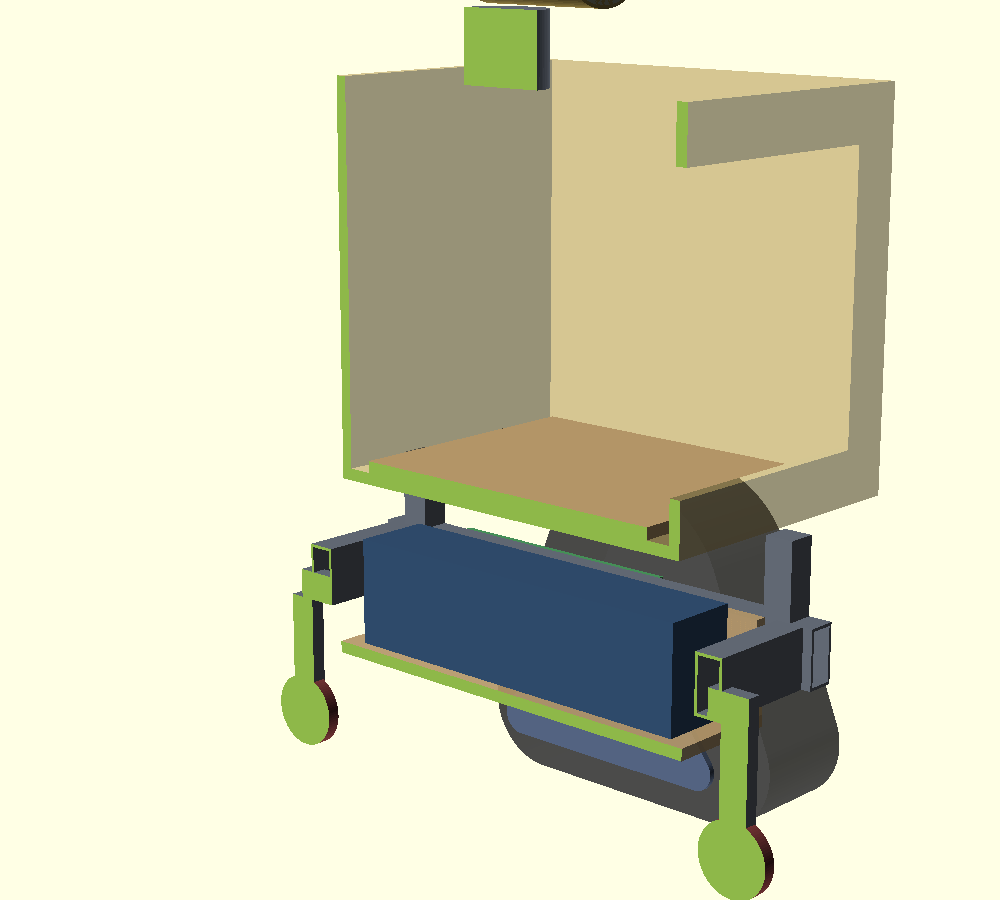
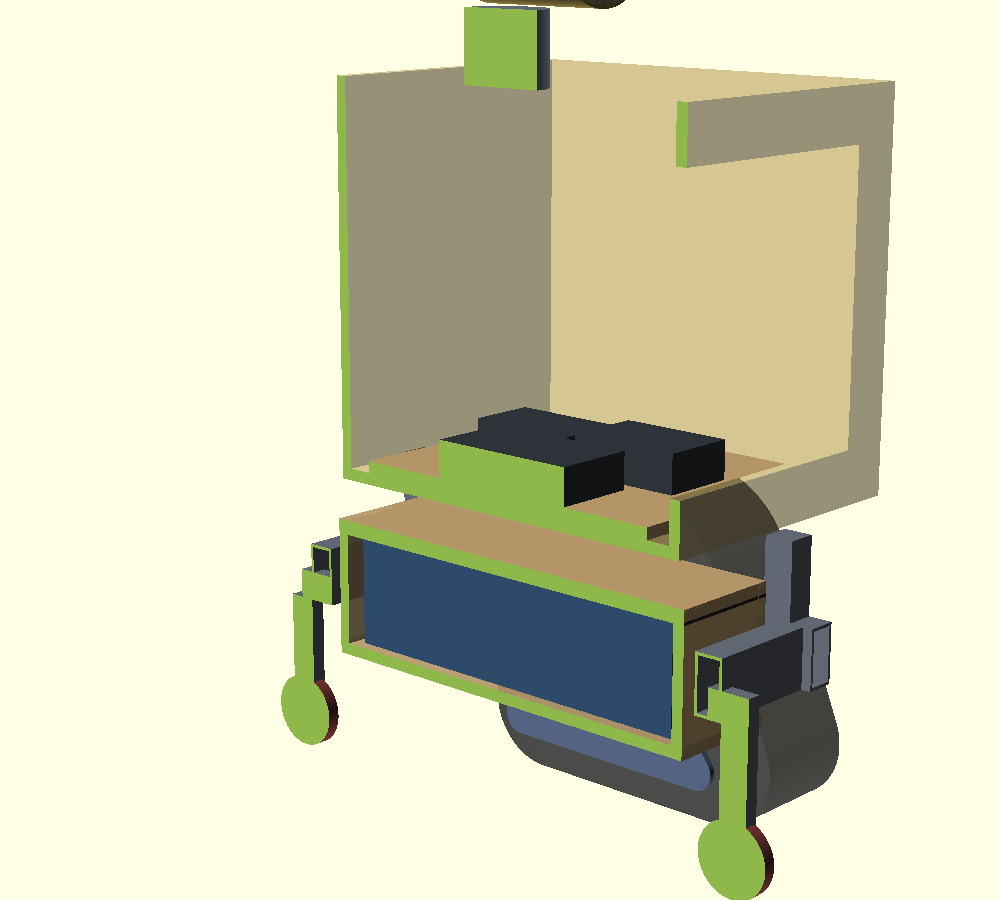
WALL-E: make the battery box an actually closed box
Sand was the reason behind the question about moving the packs into the body,
and it found a real fault. The box was a three-sided plywood U: a floor and two
side walls that stopped at the rail top, 15 mm BELOW the tops of the packs. It
was open across the whole top, open at both ends, and it carried four 30 mm
spanner holes in the sides. It hangs directly inboard of the belts, and the
belts throw sand inward and upward. It would have filled in a day.

It is now a closed box. Two end walls, which are the parts that were missing
entirely, and a gasketed lid. The side walls grew from 107 to 142 mm so they
reach above the packs and the lid has something to seal against. The plates
render mode and the cut list now carry all six panels.

Four details decide whether it seals rather than just looks sealed. The lid gets
3 mm closed-cell foam tape and twelve M5 bolts at 110 mm pitch, because a gasket
only seals where it is squeezed. The four spanner holes get silicone blanking
plugs, since they have to stay for pod removal but they point at the belts. The
packs get an 8 mm foam pad above them, which clamps them down and takes the
vibration. And the box gets a membrane vent, which is not optional: a sealed box
breathes with the desert day/night swing and pulls dust in through whichever
leak is worst, so it needs a deliberate clean path.

The vent goes in the lid rather than a wall. The first attempt put it high on
[…]

Changed region(s): [[0.341, 0.4356, 0.775, 0.84]]

diff --git a/WALL-E/docs/06-why-the-batteries-are-low.md b/WALL-E/docs/06-why-the-batteries-are-low.md
@@ -1,109 +1,174 @@
-# 06 — Why the batteries are low, and not in the body
+# 06 — Why the batteries are low, and how the box keeps sand out
 
-A reasonable question, asked on 2026-09-16. The body has plenty of spare room on
-the electronics shelf, and putting the packs there would mean no plywood box
-slung under the frame at all. So why hang them below?
+Asked on 2026-09-16: why can't the batteries be inside the body? The reason
+behind the question was sand. The packs need to be in a closed box.
 
-Run `cad/walle_frame.scad` and it prints the comparison. This document is the
-reasoning behind those numbers.
+**The question found a real bug.** The box I had drawn was a three-sided U —
+a floor and two side walls that stopped at the rail top, 15 mm *below* the tops
+of the packs. It was open across the top, open at both ends, and it had four
+Ø30 mm spanner holes in the sides. It hangs directly inboard of the belts, and
+the belts throw sand inward and upward. Sand would have filled it in a day.
+
+That is fixed. The box is now a closed, gasketed box, and the cut list has the
+end walls and the lid in it. Section 1 is the specification.
+
+The location question then still stands, and section 2 answers it: seal the low
+box rather than move the packs up.
 
 ---
 
-## The numbers
+## 1. The closed box
+
+Run `cad/walle_frame.scad` and the cut list prints all six panels.
+
+| Panel | Size | Notes |
+|---|---|---|
+| Floor | 444 × 240 | 12 mm ply |
+| Lid | 444 × 240 | 12 mm ply, 12 × M5 round the edge at 110 mm pitch |
+| Side walls | 2 × 444 × 142 | Each with 2 × Ø30 spanner holes, 77 mm up |
+| End walls | 2 × 240 × 142 | **These are the new parts. They close the box** |
+
+The walls are 142 mm tall now, not 107, so they reach above the packs and the
+lid has something to seal against.
+
+### The four things that actually make it sealed
+
+**A gasket, and enough bolts to squeeze it.** 3 mm closed-cell foam tape under
+the lid. Twelve M5 bolts at 110 mm pitch, which is closer than it looks like it
+needs to be — a gasket only seals where it is squeezed, so a bolt every 250 mm
+leaves the middle of each span open.
+
+**Plugs in the spanner holes.** The four Ø30 holes are how you reach the M12
+bolts that hold the pods on, so they have to stay. But they are holes in a
+sealed box and they point at the belts. Each gets a silicone blanking plug, in
+place whenever you are not removing a pod. They cost about a dollar each and
+without them none of the rest of this matters.
+
+**A foam pad on top of the packs.** 8 mm of closed-cell foam between the packs
+and the lid. It clamps the packs down so they cannot move, and it takes the
+vibration that would otherwise go straight into the cells.
+
+**A membrane vent — this one is not optional.** A fully sealed box *breathes*.
+The desert swings from about 15 °C at night to 40 °C in the day, and the air
+inside expands and contracts with it. Every cycle pushes air out and pulls air
+back in, and it pulls it through whichever leak is worst. Seal a box perfectly
+and you have built a dust pump.
+
+A screw-in membrane vent (the Gore type) gives that air a deliberate path that
+passes air but not dust or water. It goes in the **lid**, on the centreline,
+directly over the 24 mm gap between the two packs so the foam pad does not block
+the airway. The lid is the most sheltered surface on the box: the body floor
+sits 43 mm above it, so nothing has a straight path to it.
+
+There is a second reason the vent goes in the lid. There is barely any wall
+above the packs to put it in — the model's guards catch this, and the first
+attempt put it 2 mm *below* the pack tops.
+
+### Charge the packs in place. Do not take them out
+
+Once the box is sealed, **every time you open it you undo the sealing.** At a
+dusty event, opening the pack box daily is worse than never sealing it.
+
+So the packs are not removable in the field. Run the charge leads out of the box
+through a cable gland, to a connector on the outside of the body behind a dust
+cap, and charge the robot without opening anything. This is how every e-bike and
+scooter with an integrated pack works.
+
+The box opens for maintenance only, which means lifting the body off first. That
+is a workshop job, not a field job, and that is the right trade.
+
+> One thing to check on the bench: charging inside a sealed box has nowhere to
+> put the heat. At 5 A a 48 V pack loses roughly 12 W as heat. Measure the pack
+> temperature through a full charge with the lid on before trusting it, and if it
+> climbs, charge with the body lid open or drop the charge current.
+
+---
+
+## 2. Why seal the low box, instead of moving the packs into the body
+
+On sand alone, the body looks like the better place: it is higher up, closed, and
+away from the belts. That is a fair point, so here is the argument against it.
+
+**The packs need a sealed case wherever they go.** Putting them in the body does
+not remove that work. The body is not a clean environment — it has a filtered air
+intake, a removable top lid and several cable entries, and it is full of
+electronics that you would not want a cell to vent next to. They would still end
+up in their own gasketed case, just a case sitting higher up. The sealing work in
+section 1 happens either way.
+
+Once that is true, the location is decided by everything else, and low wins on
+all of it:
+
+**The body is the hottest place on the robot.** Inside it there is a Jetson
+putting out 25 W, both VESCs and the amplifier, in a sealed foam-lined box, in
+the Negev. Lithium cells lose life quickly above 45 °C, and that is normal
+ageing, not a fault. Under the frame the packs sit in open air in the draught of
+driving — the best-cooled spot on the machine, free.
+
+**The shelf cannot really take them.** A pack is 400 mm long and the shelf is
+only 356 mm deep, so they could not even lie fore-aft. Lying across the robot the
+two of them use 50 % of the shelf area on top of the 32 % the electronics already
+need. That is 83 % of the shelf, and what is left has to hold two 6.5 inch
+speakers and a clear air path.
+
+**It is the worst place for a cell to fail.** A box under the frame vents
+downwards and away from everything. The same event on the electronics shelf
+happens inside the body, next to every board, with the head on top of it.
+
+**It throws away the best volume on the robot.** The frame interior is
+444 × 240 × 110 mm, lower than anything else, and mass down there *improves* the
+tipping instead of hurting it.
+
+### The tipping numbers, for completeness
 
 | | Battery CoM | Robot CoM | Tips forward at |
 |---|---|---|---|
 | **As built** — packs in the frame | 217 mm | 332 mm | **19.2°** |
 | If moved to the body shelf | 399 mm | 364 mm | 17.6° |
 
-So moving them up raises the robot's centre of mass by 32 mm and costs 1.6° of
-tipping margin.
-
-**That on its own is not a veto, and it is worth being honest about that.** The
-anti-tip castor catches the pitch at 12.3°, so the margin would go from 6.9° to
-5.3°, which still passes the model's check. Tipping is not the reason.
+Moving them up raises the centre of mass 32 mm and costs 1.6°. **That on its own
+is not a veto, and it is worth being honest about that** — the anti-tip castor
+catches the pitch at 12.3° either way, so the margin would go from 6.9° to 5.3°
+and still pass. Tipping is not the reason. The four points above are.
 
 ---
 
-## The four reasons that are
+## 3. The one argument for moving them: ground clearance
 
-### 1. The shelf cannot really take them
+The plywood box floor is the lowest point of the robot, at 150 mm. Remove the box
+and the lowest point becomes the rail bottoms at 197 mm. That is 47 mm of extra
+ground clearance, and on rutted sand it is a genuine gain.
 
-A pack is 400 mm long and the shelf is only 356 mm deep, so the packs **cannot
-lie fore-aft at all.** They would have to lie across the robot, and then the two
-of them use 50 % of the shelf area on top of the 32 % the electronics already
-need. That is 83 % of the shelf gone.
+If clearance turns out to be the problem, **do not solve it by moving the packs
+into the body. Raise the box.** The pack top is at 272 mm and the pod belt crown
+above it is at 327, so there is unused headroom. The limit is not the crown — it
+is the M12 spanner holes in the side walls, which have to stay clear of the
+floor. That caps the floor at 190 mm. Checked against the model: at 190 the guard
+sits exactly on its minimum, and at 195 it fails.
 
-What is left has to hold two 6.5 inch speakers and a clear air path past the
-Jetson and the two VESCs. It will not.
+| | Ground clearance | Robot CoM | Tips forward at |
+|---|---|---|---|
+| Box floor at 150 (as built) | 150 mm | 332 mm | 19.2° |
+| Box floor at 190 (the limit) | **190 mm** | 340 mm | **18.8°** |
+| Packs in the body | 197 mm | 364 mm | 17.6° |
 
-### 2. The body is the hottest place on the robot
+Raising the box buys 40 of the 47 mm for 0.4° instead of 1.6°, and none of the
+heat, access or failure-mode problems. Owner decision 2026-09-16: leave it at
+150 for now and revisit after the first drive on sand.
 
-Inside the body there is a Jetson putting out 25 W, two VESCs, and an amplifier,
-in a sealed foam-lined box, in the Negev in summer.
-
-Lithium cells lose life quickly above 45 °C, and that is the normal degradation
-case, not the failure case. Down in the frame the packs sit in open air
-underneath the body, in the draught of driving. That is the single best-cooled
-location on the whole machine, and it costs nothing to use it.
-
-### 3. If a pack does fail, where it fails matters
-
-An open-bottomed plywood tray under the frame lets a venting cell dump downwards
-and away from everything. The same event on the electronics shelf happens inside
-a closed foam box, next to every board on the robot, with WALL-E's head on top of
-it.
-
-### 4. It throws away the best space on the robot
-
-The frame interior is 444 × 240 × 110 mm of volume, lower than anything else, and
-mass down there is free — it improves the tipping instead of hurting it. Filling
-it with air and then carrying 16 kg at shelf height is the wrong way round.
-
-There is also a practical cost: charging means lifting two 8 kg packs up over a
-400 mm body wall and down onto a shelf, every day, in the dark, in dust. Out of a
-tray at knee height it is a two-second job.
-
----
-
-## The one real argument the other way
-
-The plywood box floor is the lowest point of the robot, at 150 mm. Take the box
-away and the lowest point becomes the rail bottoms at 197 mm. **That is 47 mm of
-extra ground clearance, and on soft sand with ruts it is a genuine gain.**
-
-If clearance turns out to be the problem, do **not** solve it by moving the packs
-into the body. Solve it by raising the box.
-
-### Raising the box instead
-
-The pack top is currently at 272 mm and the thing above it — the pod belt crown —
-is at 327 mm. So there are 55 mm of unused headroom. The box can simply move up.
-
-The limit is not the crown. It is the M12 bolt access holes in the box side
-walls, which have to stay clear of the floor. That caps the floor at 190 mm:
-
-| | Ground clearance | Battery CoM | Robot CoM | Tips forward at |
-|---|---|---|---|---|
-| Box floor at 150 (as built) | 150 mm | 217 mm | 332 mm | 19.2° |
-| Box floor at 190 (the limit) | **190 mm** | 257 mm | 339 mm | **18.8°** |
-| Packs in the body | 197 mm | 399 mm | 364 mm | 17.6° |
-
-Raising the box buys almost all of the clearance for a quarter of the tipping
-cost, and none of the heat, access or failure-mode problems.
-
-One consequence to design for: with the floor at 190 the side walls are only
-60 mm tall, so the 110 mm packs stand mostly above the walls. The box becomes a
-shallow tray, and the packs then need a strap or a lid across the top to hold
-them down rather than relying on the walls.
+One consequence to design for if it does get raised: at a floor of 190 the side
+walls are only 60 mm of useful depth below the rail top, so the packs stand
+proud of the rails by more. The lid bolts then need blocks to land on rather than
+just the wall edges.
 
 ---
 
 ## Summary
 
-Keep the batteries low. Not because of the tipping, which is affordable, but
-because the body has no room for them, it is the hottest and most enclosed place
-on the robot, it is the worst place for a cell to fail, and it wastes the one
-volume where mass is actually helpful.
+The box was open, which was a real fault, and it is now a closed box with a
+gasket, plugged spanner holes, a foam pad and a membrane vent in the lid. Charge
+through a sealed connector and do not open it in the field.
 
-If ground clearance becomes the problem, raise the box floor towards 190 mm.
+Keep the packs low. Not because of the tipping, which is affordable, but because
+they need a sealed case wherever they go, and once that is true the body is the
+hottest, most crowded, and most dangerous place to put them.

diff --git a/WALL-E/docs/00-plan.md b/WALL-E/docs/00-plan.md
@@ -120,7 +120,10 @@ follow from that:
 | L12 | Body length follows the **pod** length, not the anti-tip castors | A body sized to cover the castors is 745 mm on 363 mm pods, and looks like a crate on toy wheels. The castor arms show as outriggers instead |
 | L13 | Two Face boards, one per eye | Two 480×480 QSPI panels on one ESP32-S3 is tight and would tear. 12 dollars removes the risk. `05-bom.md` §4 |
 | L14 | The amplifier gets its own 48→32 V converter | A TPA3255 maxes out at 53.5 V and a "48 V" pack is 54.6 V full. It also keeps the audio spikes off the Jetson's rail. `04-power-and-wiring.md` §4 |
-| L15 | **Batteries stay in the frame, not in the body** | Not for the tipping, which is affordable. The shelf has no room, the body is the hottest and most sealed place on the robot, and it is the worst place for a cell to fail. If clearance is the problem, raise the box floor towards 190 mm instead. `06-why-the-batteries-are-low.md` |
+| L15 | **Batteries stay in the frame, not in the body** | Not for the tipping, which is affordable. They need a sealed case wherever they go, and once that is true the body is the hottest, most crowded and most dangerous place for them. `06-why-the-batteries-are-low.md` |
+| L16 | The battery box is a **closed, gasketed box** with a membrane vent in the lid | Owner, 2026-09-16: sand. It was a three-sided U hanging where the belts throw sand. Now six panels, plugged spanner holes, foam pad, lid vent |
+| L17 | Packs charge **in place** and never come out in the field | Every opening of a sealed box at a dusty event undoes the sealing. Charge lead out through a gland to a connector on the body, behind a dust cap |
+| L18 | Box floor stays at 150 mm for now | Raising it to 190 would buy 40 mm of ground clearance for 0.4° of tipping. Owner: revisit after the first drive on sand |
 
 #### L7 — why we keep the short belts now
 
@@ -459,6 +462,9 @@ Ordered by how much damage each one does, not how likely it is.
 | R6c | The VESCs cook inside the body | One track dies, and the robot pivots | Direct consequence of L11: on a plywood shelf they have no steel to dump heat into. Each gets an aluminium plate bolted through to a body panel, and one filtered air path pushes air IN so the body runs at positive pressure |
 | R7 | Frame arrives late, no time to integrate | A clever box that cannot move | Frame design starts week 2. Electronics run in parallel on a bench |
 | R8 | Sand destroys bushings and bearings | Progressive seizure over the event | Covers. Daily cleaning. Spares in the kit |
+| R8b | Sand gets into the battery box | Grit between the cells and the box, chafed wiring, a short | L16: closed box, gasketed lid on 110 mm bolt pitch, silicone plugs in all four spanner holes. **Check the plugs are in every morning** — they are the weak point, and they point at the belts |
+| R8c | The sealed box breathes and pumps dust in through its worst leak | Slow, invisible version of R8b, and it defeats the gasket | Membrane vent in the lid, on the centreline over the gap between the packs, so the air has a clean path it does not have to find |
+| R8d | Charging in a sealed box has nowhere to put the heat | Packs age fast, or worse | About 12 W of loss at 5 A. Log the pack temperature through one full charge with the lid on, on the bench, before the event. If it climbs, charge with the body lid open or drop the current |
 | R9 | Printed sprocket softens in the sun | Drive failure | Check what the fitted ones are printed in. If PLA, reprint in ASA or nylon. Carry a spare |
 | R10 | Scope grows, especially the body | Nothing is finished | Section 9 cut list, agreed in advance |
 | R11 | Midburn vehicle rules not met | Cannot operate at the event | D5 this week, before the frame is welded |

diff --git a/WALL-E/README.md b/WALL-E/README.md
@@ -90,7 +90,7 @@ WALL-E/
     main.py                  The 20 Hz control loop
     test_safety.py           Invariant checks. Runs with no dependencies
   cad/
-    walle_frame.scad         The whole robot. Parametric, with 30 guards
+    walle_frame.scad         The whole robot. Parametric, with 33 guards
     walle_robot_*.png        The robot with body and head
     walle_head.png           The eye barrels
     walle_shelf.png          The electronics layout, labelled
@@ -103,7 +103,7 @@ WALL-E/
 
 `cad/walle_frame.scad` is the whole robot: the frame, the two pods, the batteries, the body,
 the head and the electronics layout. Run it and it prints every dimension, the cut list, the
-tipping angles, and 30 checks that all have to pass.
+tipping angles, and 33 checks that all have to pass.
 
 ```bash
 openscad -o walle.stl -D 'render_mode="robot"'    cad/walle_frame.scad   # everything
@@ -131,17 +131,17 @@ wheels.
 | Whole robot, estimated | 91 kg — **every mass in the model is still a guess** |
 | Centre of mass | 332 mm above the ground, centred over the tracks |
 | Ground pressure | 0.167 kg/cm² over 546 cm² |
-| Tips forward at | 19.4° of pitch |
-| Anti-tip castor catches at | 9.9° — so it catches 9° before the robot goes over |
+| Tips forward at | 19.2° of pitch |
+| Anti-tip castor catches at | 12.3° — so it catches 6.9° before the robot goes over |
 | Steel needed | 1580 mm of 60×30×3 box tube |
 
 **The pod comes off with two bolts per side.** The frame reuses the four M12 holes that are
 already drilled in the green plates, so no new holes go into the built pods.
 
 The tipping numbers are only as good as the mass guesses feeding them. Weigh a pod, weigh a
-pack, and put the real numbers in the model before trusting 19.4°.
+pack, and put the real numbers in the model before trusting 19.2°.
 
-### Two things the model settled
+### Three things the model settled
 
 **There is no room for electronics in the frame.** The interior is almost entirely battery:
 8 mm above the packs, 24 mm between them, 13 mm to the cross members. So everything moved
@@ -153,6 +153,18 @@ leaves room for the speakers and an air path.
 **The body floor has to clear the belt crown, not the frame.** The pods are 327 mm tall at
 the top of the belt but the frame only reaches 257, so the body sits on four risers 78 mm
 tall. Miss this and the shell grinds on a moving belt.
+
+**The battery box has to be a closed box, and it was not one.** It was a three-sided U,
+open across the top and at both ends, hanging right where the belts throw sand. It is now
+six panels with a gasketed lid, plugs in the spanner holes, and a membrane vent — a sealed
+box breathes with the day/night temperature swing and pulls dust in through its worst leak,
+so it needs a clean air path. The packs charge in place through a connector on the outside
+of the body and never come out in the field.
+
+![the plywood cutting layout](cad/walle_frame_plates.png)
+
+Why the packs stay low rather than going in the body, with the numbers:
+[`docs/06-why-the-batteries-are-low.md`](docs/06-why-the-batteries-are-low.md).
 
 ### The head
 

diff --git a/WALL-E/docs/05-bom.md b/WALL-E/docs/05-bom.md
@@ -56,8 +56,23 @@ not in month four.
 | 1 | Buck converter, 12→5 V, 5 A | 12 | Stock | Teensy, ESP32, head servos. |
 | — | Capacitors, 4700 µF 25 V, and TVS diodes | 20 | Stock | Rail buffer and VESC input protection. |
 | — | Steel box tube 60×30×3 and 30×30, plate, M12 10.9 bolts | 300 | Stock | Cut list is echoed by `cad/walle_frame.scad`. |
-| 12 mm | Birch plywood sheet | 60 | Stock | Battery box and electronics shelf. |
+| 12 mm | Birch plywood sheet | 60 | Stock | Battery box (six panels) and electronics shelf. |
 | 2 | Castor wheels, Ø75, and mounting steel | 60 | Stock | Anti-tip. `cad/walle_frame.scad`. |
+
+### Sealing the battery box — small money, and it decides whether the packs survive
+
+The box hangs inboard of the belts, which throw sand at it. `06-why-the-batteries-are-low.md`
+has the reasoning. Cheap parts, so buy spares of all of them.
+
+| Qty | Part | Cost, USD | Lead | Notes |
+|---|---|---|---|---|
+| 5 m | Closed-cell foam tape, 3 mm, self-adhesive | 10 | Stock | The lid gasket. EPDM, not open-cell — open-cell soaks up water and holds grit. |
+| 1 sheet | Closed-cell foam, 8 mm | 10 | Stock | The pad on top of the packs. Clamps them down and takes the vibration. |
+| 8 | Silicone blanking plug, Ø30 | 10 | Stock | 4 needed, 4 spare. **These plug the M12 spanner holes.** Without them the rest of the sealing is pointless. Check them every morning. |
+| 2 | Screw-in membrane vent, M12, IP67 (Gore type or equivalent) | 16 | Stock | 1 needed, 1 spare. Goes in the **lid**. A sealed box breathes with the day/night temperature swing; this is the clean path so it does not pull dust through a leak. |
+| 4 | Cable gland, M16, IP68 | 10 | Stock | Charge leads and pack sense wiring out of the box. Not a drilled hole. |
+| 16 | M5 bolts, nuts and washers, 25 mm | 8 | Stock | 12 for the lid at 110 mm pitch, plus spares. A gasket only seals where it is squeezed. |
+| 1 | Anderson or XT60 charge connector with a dust cap, body-mounted | 15 | Stock | The packs charge **in place** and do not come out in the field. |
 
 ### The contactor is the long pole
 
@@ -160,12 +175,13 @@ cannot be the same failure.
 |---|---|---|
 | 1 — de-risking | now | 550 |
 | 2 — frame and drive | 1 | 1,110 |
+| 2b — sealing the battery box | 1 | 80 |
 | 3 — compute and sensors | 2 | 740 |
 | 4 — face and sound | 4 | 400 |
 | 5 — body | 5 | 760 |
 | Tools and consumables not listed above | throughout | 250 |
 | Spares kit (`00-plan.md` phase 6) | 6 | 300 |
-| **Total** | | **≈ 4,100** |
+| **Total** | | **≈ 4,200** |
 
 This sits at the top of the 2,700 to 4,200 range in `00-plan.md` section 7, which is what
 happens when estimates turn into named parts. The three places to cut, in order:
